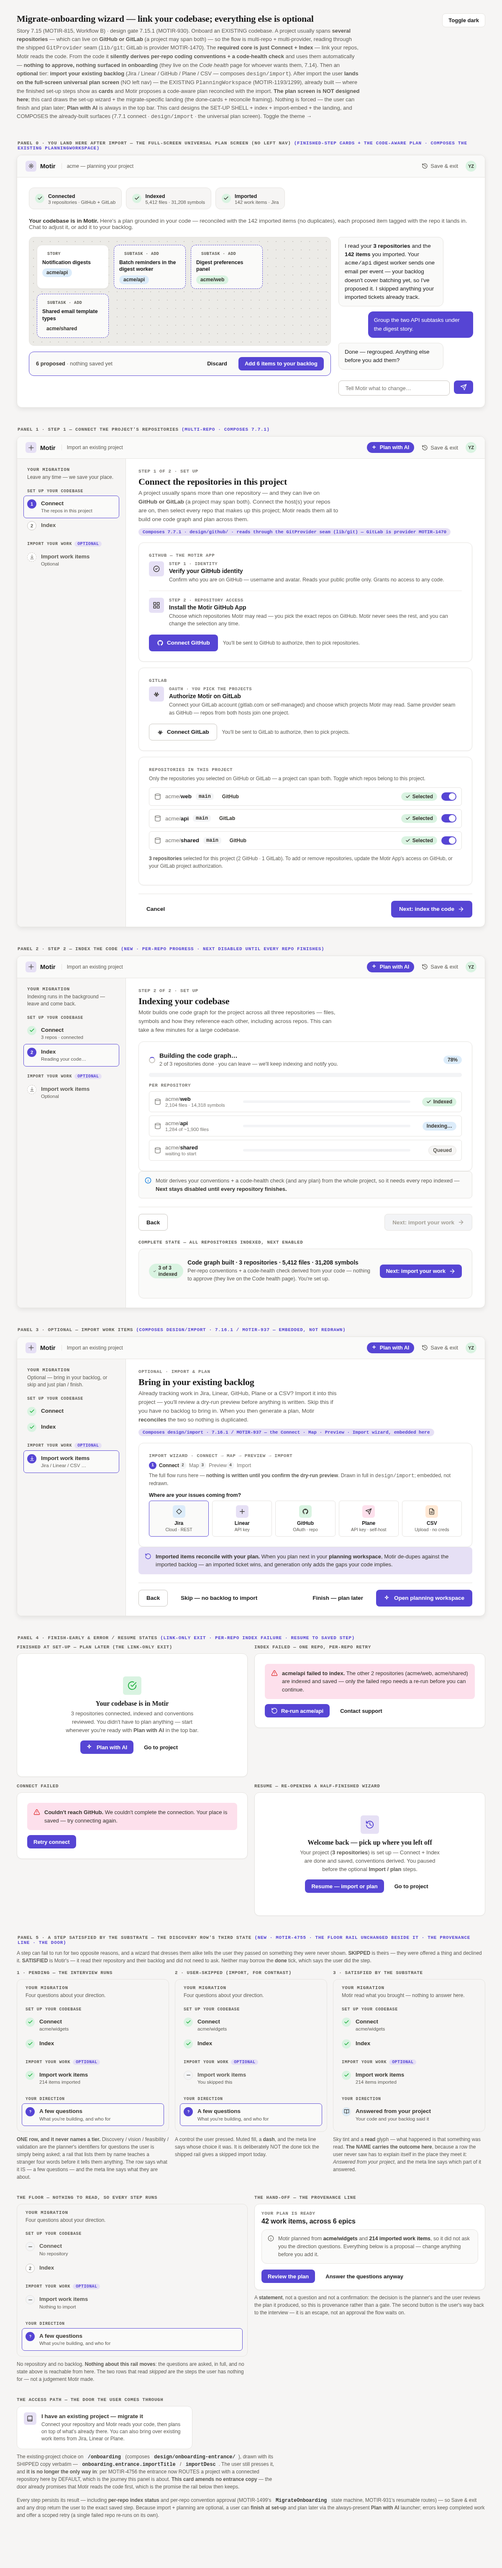
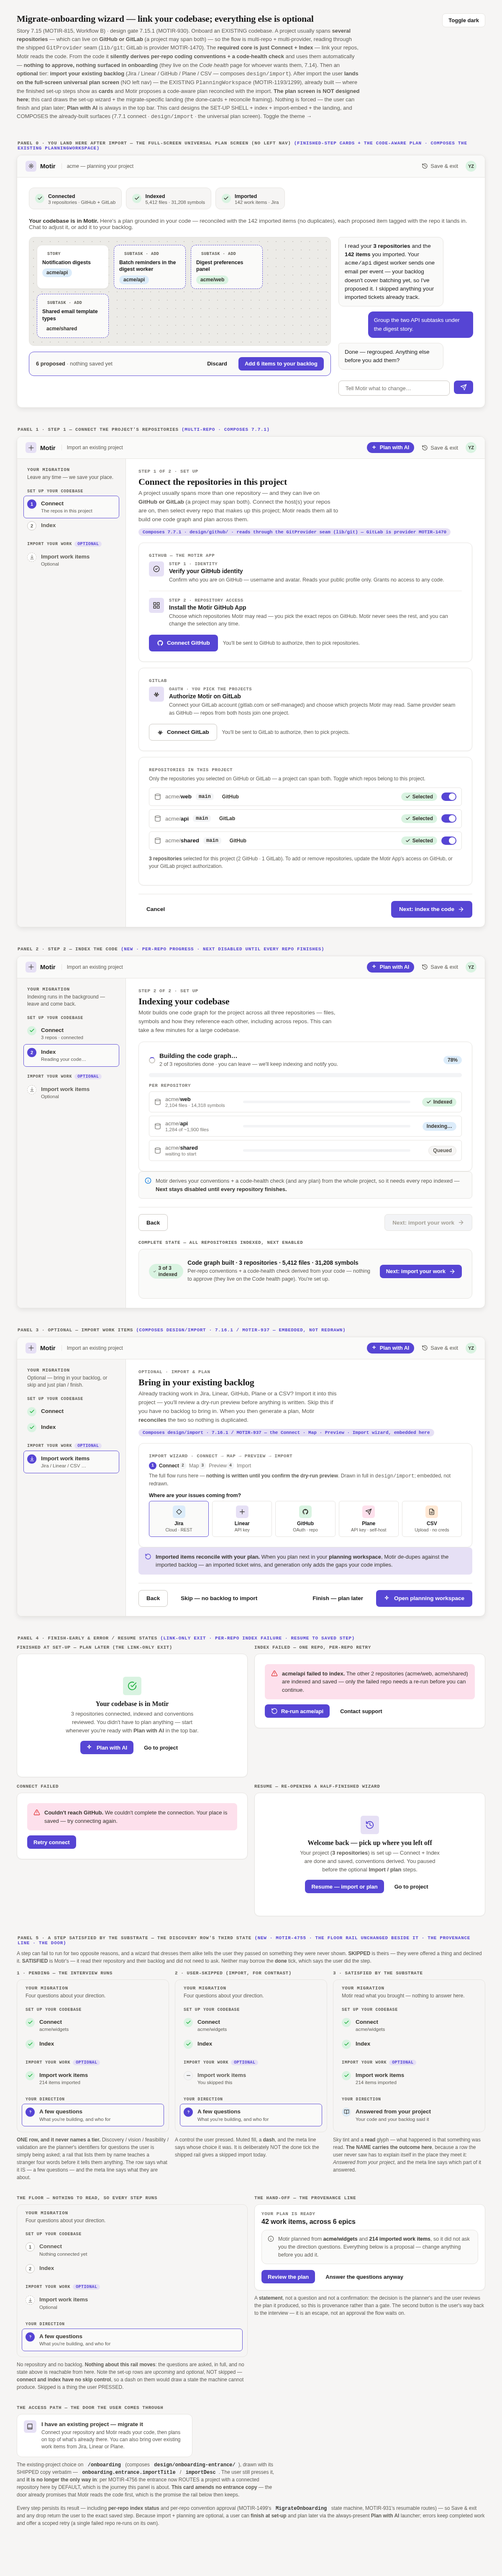
design(onboarding-migrate): the floor rail's set-up rows are upcoming/optional, not skipped
Caught by cropping the rendered panel and looking at it.

The floor rail drew Connect with a dash and the meta line "No repository",
which reads as "the user skipped connect" — and connect and index have NO skip
control, so that is a state the machine cannot produce. Import was drawn the
same way, though its untouched state is `optional`, which the rail already has.

A design asset that draws an impossible state is worse than useless: the next
person builds it. `skipped` is a thing the user PRESSED, and the only step that
offers it is import.

Connect and Index are now `upcoming` (Connect meta: "Nothing connected yet"),
Import is `optional` as it already is elsewhere in the asset, and the annotation
says why rather than rationalising the dash. This also removes the orphaned "2"
the previous draft left on Index.

Design lane green; HEAD render EXACT.

diff --git a/design/onboarding-migrate/onboarding-migrate.mock.html b/design/onboarding-migrate/onboarding-migrate.mock.html
@@ -3037,38 +3037,33 @@
               <div class="rail-title">Your migration</div>
               <div class="rail-sub">Four questions about your direction.</div>
               <div class="rail-group">Set up your codebase</div>
-              <div class="step skipped">
-                <span class="marker" aria-hidden="true"
-                  ><svg
-                    viewBox="0 0 24 24"
-                    fill="none"
-                    stroke="currentColor"
-                    stroke-width="2.5"
-                    stroke-linecap="round"
-                  >
-                    <path d="M5 12h14" /></svg></span
+              <div class="step upcoming">
+                <span class="marker">1</span
                 ><span
                   ><span class="s-name">Connect</span
-                  ><span class="s-meta">No repository</span></span
+                  ><span class="s-meta">Nothing connected yet</span></span
                 >
               </div>
               <div class="step upcoming">
                 <span class="marker">2</span><span><span class="s-name">Index</span></span>
               </div>
               <div class="rail-group">Import your work <span class="opt">optional</span></div>
-              <div class="step skipped">
+              <div class="step optional">
                 <span class="marker" aria-hidden="true"
                   ><svg
                     viewBox="0 0 24 24"
                     fill="none"
                     stroke="currentColor"
-                    stroke-width="2.5"
+                    stroke-width="2"
                     stroke-linecap="round"
+                    stroke-linejoin="round"
                   >
-                    <path d="M5 12h14" /></svg></span
+                    <path d="M12 3v13" />
+                    <path d="m7 12 5 4 5-4" />
+                    <path d="M5 21h14" /></svg></span
                 ><span
                   ><span class="s-name">Import work items</span
-                  ><span class="s-meta">Nothing to import</span></span
+                  ><span class="s-meta">Optional</span></span
                 >
               </div>
               <div class="rail-group">Your direction</div>
@@ -3092,9 +3087,10 @@
             </nav>
             <p class="muted-note" style="margin-top: 9px">
               No repository and no backlog. <strong>Nothing about this rail moves</strong>: the
-              questions are asked, in full, and no state above is reachable from here. The two rows
-              that read <em>skipped</em> are the steps the user has nothing for — not a judgement
-              Motir made.
+              questions are asked, in full, and no state above is reachable from here. Note the
+              set-up rows are <em>upcoming</em> and <em>optional</em>, NOT skipped —
+              <strong>connect and index have no skip control</strong>, so a dash on them would draw
+              a state the machine cannot produce. Skipped is a thing the user PRESSED.
             </p>
           </div>
           <div>

diff --git a/design/onboarding-migrate/design-notes.md b/design/onboarding-migrate/design-notes.md
@@ -599,6 +599,12 @@ are all walked; it now draws the one row in its pending state, which makes the s
 the vocabulary. Nothing about the floor's BEHAVIOUR changed — every question is still asked, and no
 state above is reachable from there.
 
+**⚠ AND THE FLOOR'S SET-UP ROWS ARE `upcoming` / `optional`, NOT `skipped`.** A first draft drew
+Connect with a dash and the meta line _"No repository"_, which reads as _the user skipped connect_ —
+and **connect and index have no skip control**, so that is a state the machine cannot produce. A
+design asset that draws one is worse than useless: the next person builds it. `skipped` is a thing
+the user PRESSED, and the only step that offers it is import.
+
 **What the consuming card owes is therefore SMALLER than the first revision implied:** one rail row,
 not a four-row group. MOTIR-4759's sizing is amended accordingly.
 
